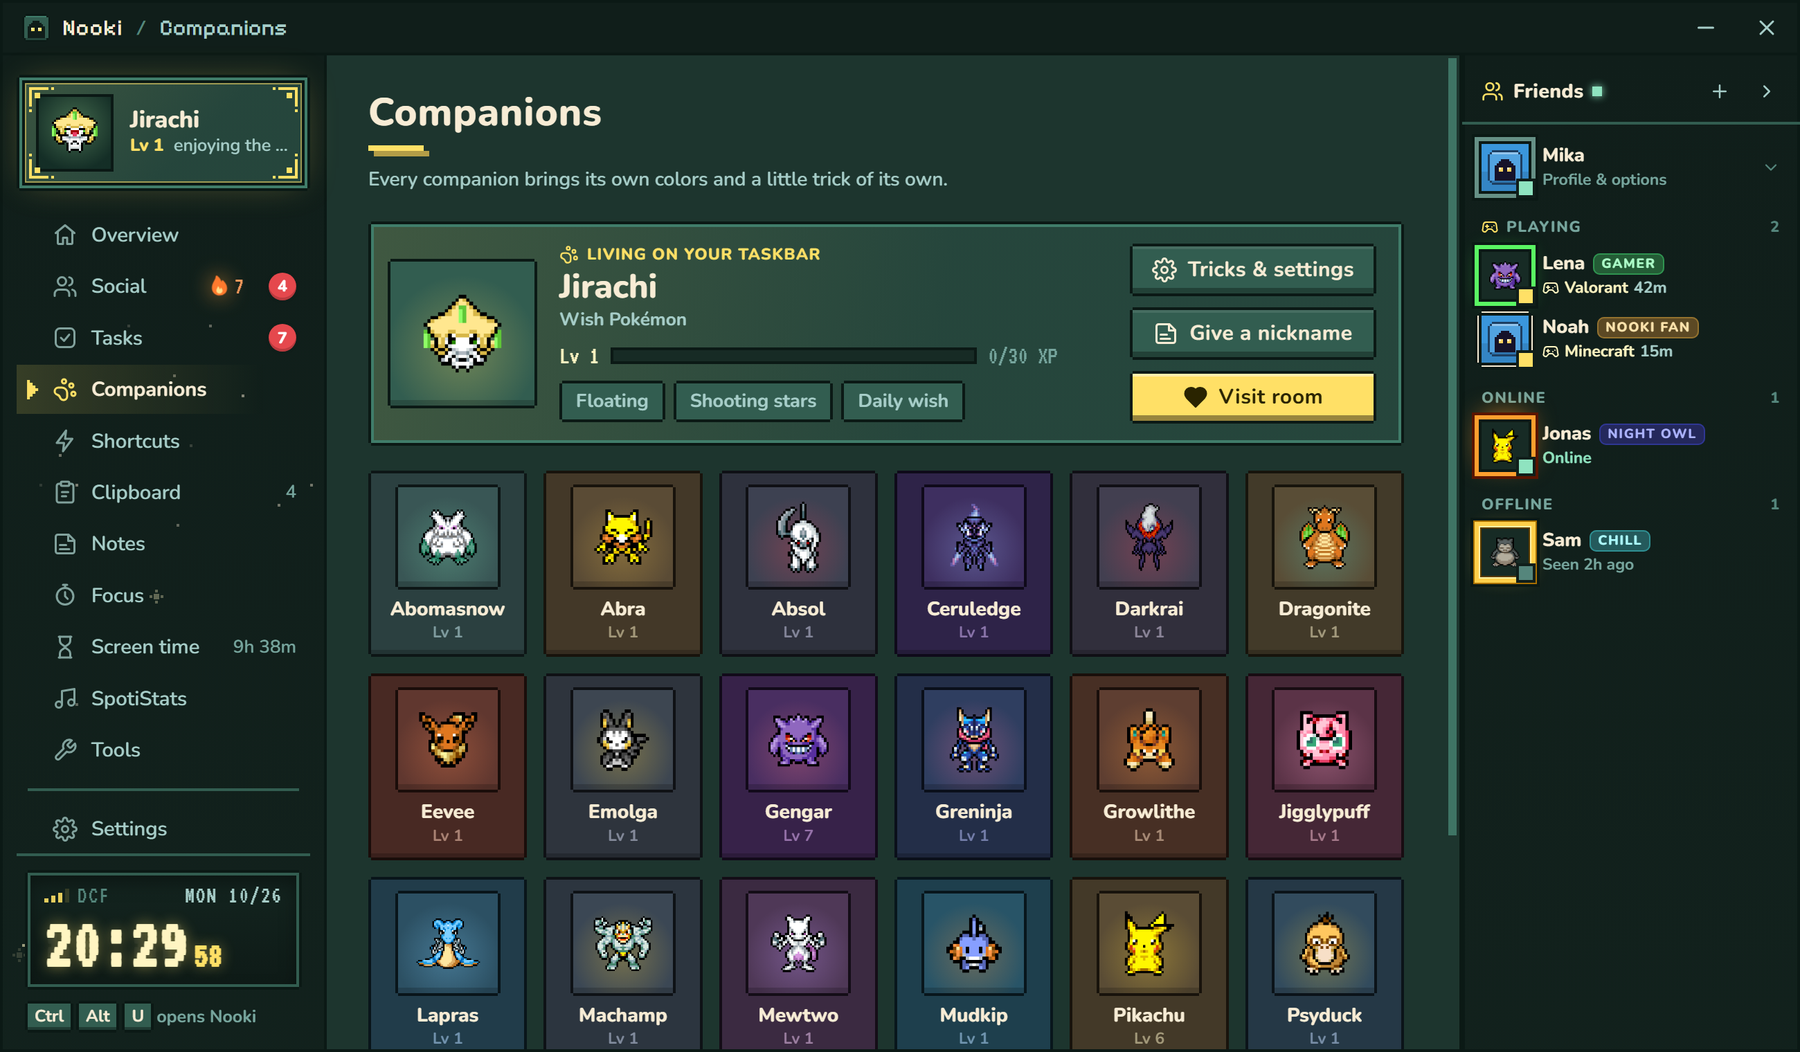
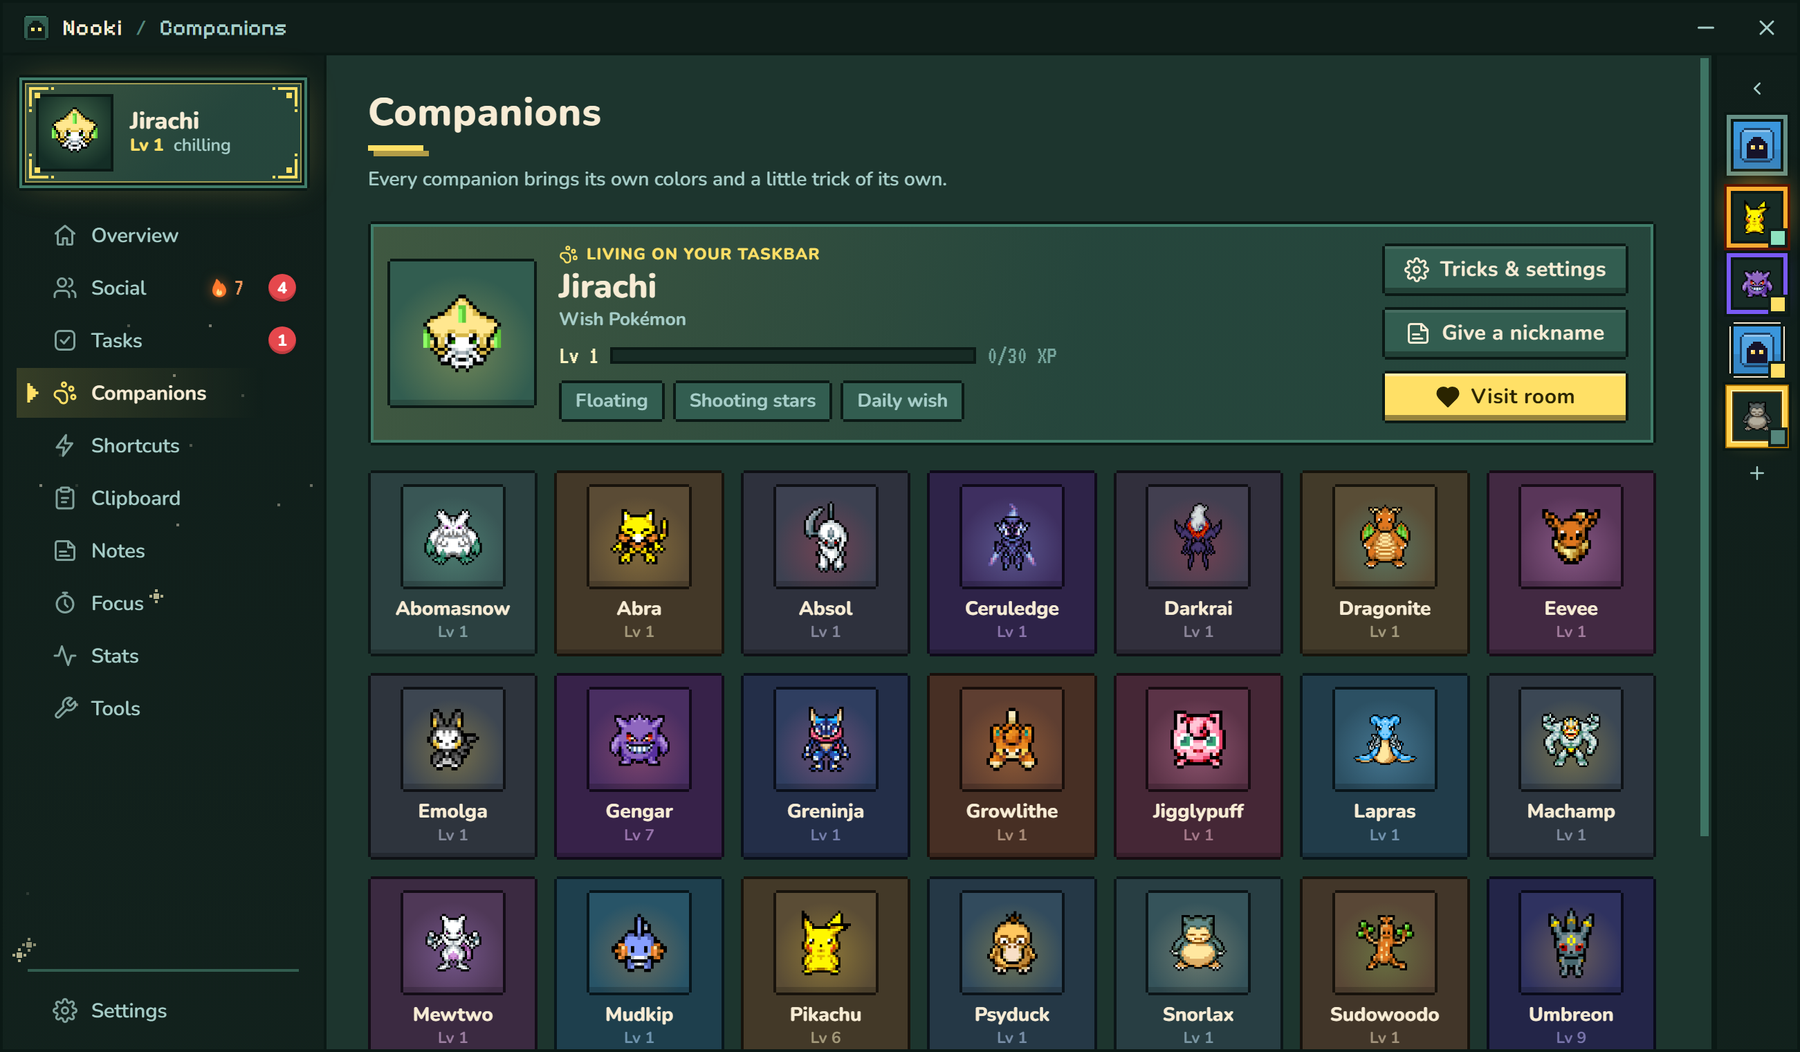
Screenshots of Nooki 2.3.4's tidier look
New pictures for the website and the README (made-up demo data), and
the website's fallback download now points at 2.3.4.

diff --git a/docs/app.js b/docs/app.js
@@ -8,7 +8,7 @@
   const pick = (list) => list[Math.floor(Math.random() * list.length)];
   const REPO = 'nwcl0ud/nooki';
   // when GitHub can't be asked (offline, too many visits): this one still works and updates itself
-  const FALLBACK = { version: '2.3.3', url: `https://github.com/${REPO}/releases/download/v2.3.3/Nooki-Setup-2.3.3.exe`, size: 121066263 };
+  const FALLBACK = { version: '2.3.4', url: `https://github.com/${REPO}/releases/download/v2.3.4/Nooki-Setup-2.3.4.exe`, size: 121066002 };
   const REDUCED = matchMedia('(prefers-reduced-motion: reduce)').matches;
   const saved = {
     get(k) { try { return localStorage.getItem(k); } catch { return null; } },
